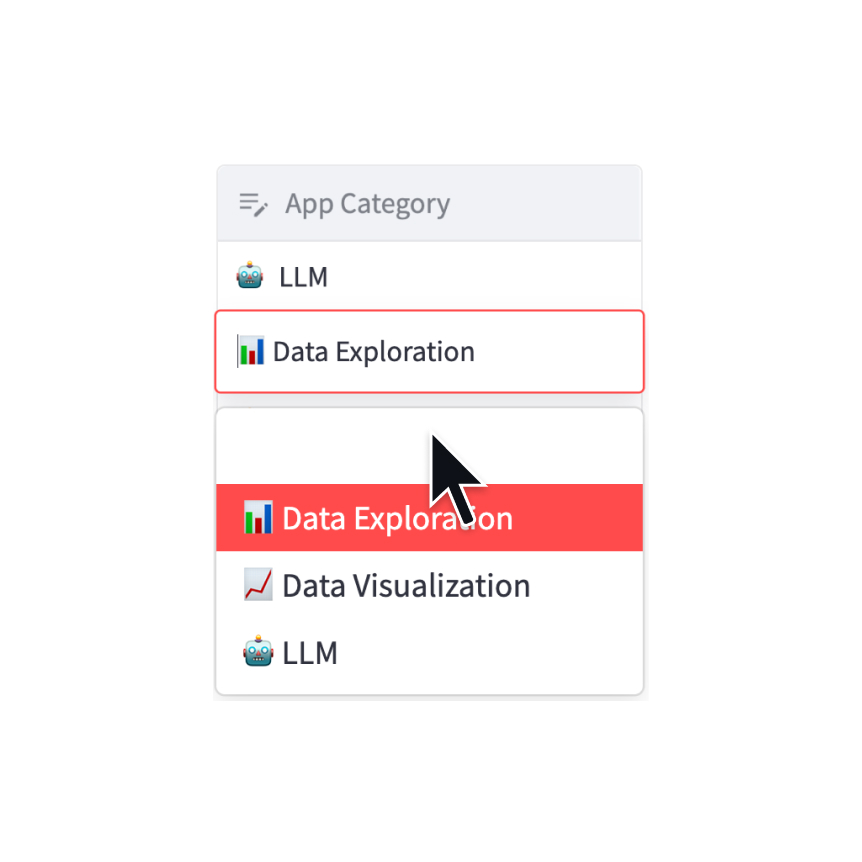
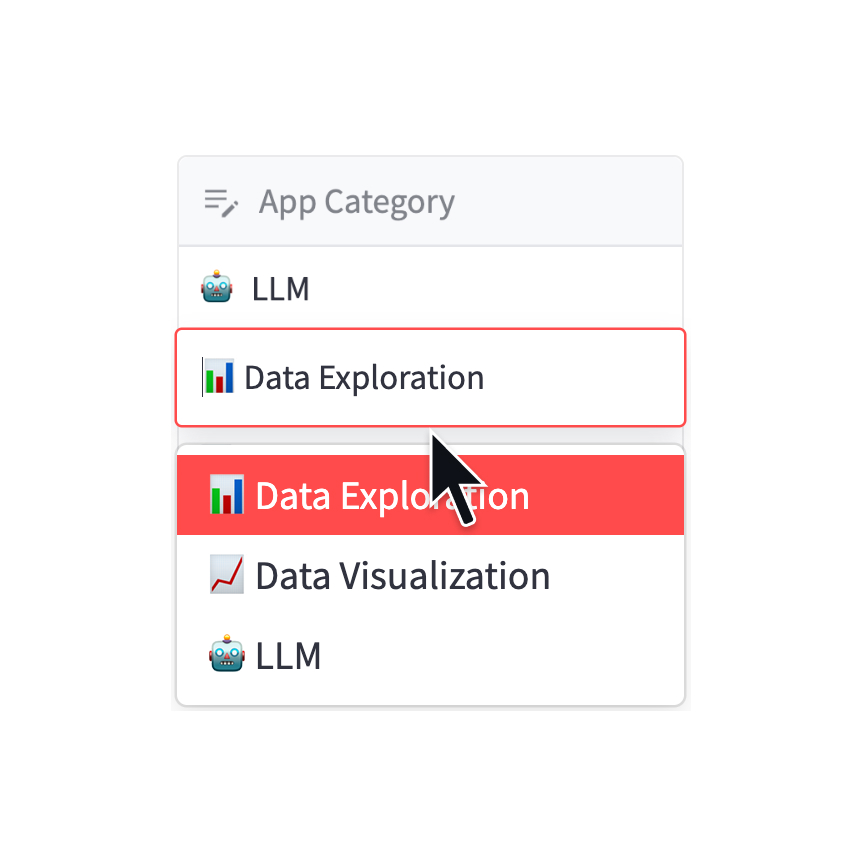
Use `required=True` for selectboxcolumn app and screenshot

Changed region(s): [[0.181, 0.3016, 0.8144, 0.6937], [0.2111, 0.7239, 0.7842, 0.8445], [0.2413, 0.2111, 0.5429, 0.2715]]

diff --git a/python/api-examples-source/data.selectbox_column.py b/python/api-examples-source/data.selectbox_column.py
@@ -30,6 +30,7 @@ st.data_editor(
                 "📈 Data Visualization",
                 "🤖 LLM",
             ],
+            required=True,
         )
     },
     hide_index=True,

diff --git a/content/library/api/data/data.md b/content/library/api/data/data.md
@@ -25,7 +25,7 @@ st.dataframe(my_data_frame)
 ```
 
 </RefCard>
-<RefCard href="/library/api-reference/widgets/st.experimental_data_editor">
+<RefCard href="/library/api-reference/data/st.data_editor">
 
 <Image pure alt="screenshot" src="/images/api/data_editor.jpg" />
 
@@ -34,7 +34,7 @@ st.dataframe(my_data_frame)
 Display a data editor widget.
 
 ```python
-edited = st.experimental_data_editor(df, num_rows="dynamic")
+edited = st.data_editor(df, num_rows="dynamic")
 ```
 
 </RefCard>
